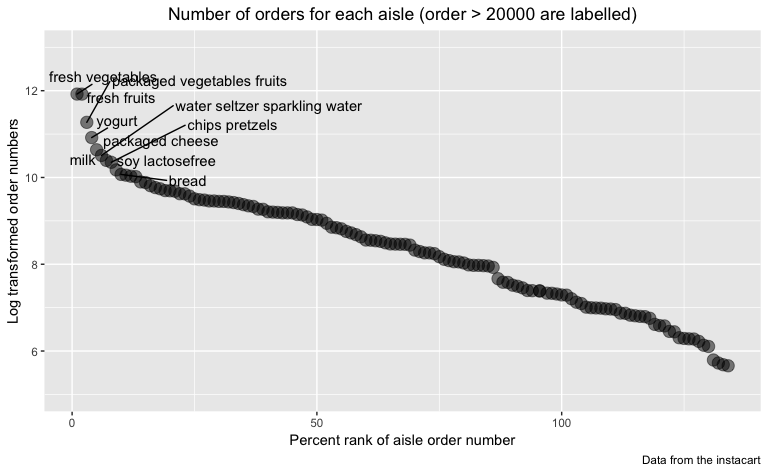
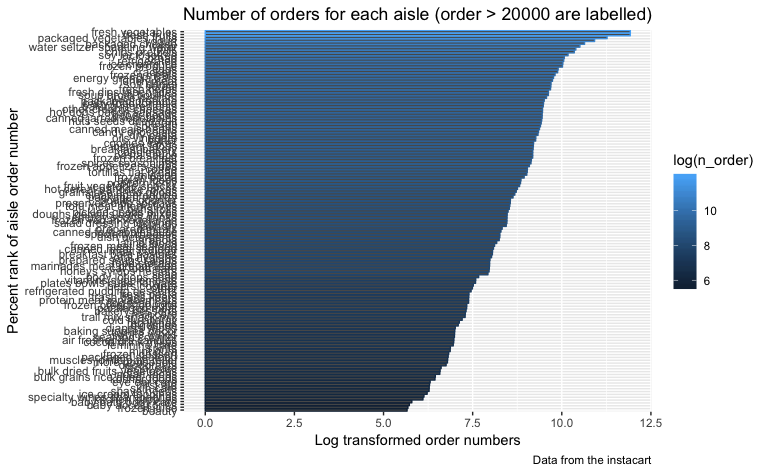
Version 9
1. make outputs keep less digits

2. show only several aisles in table

3. change the aisle plot

4. change to boxplot for last figure

5. add descriptions to noaa data in problem 3

diff --git a/p8105_hw3_zf2213.md b/p8105_hw3_zf2213.md
@@ -95,17 +95,17 @@ brfss %>% filter(year %in% c(2002, 2006, 2010), response == "Excellent", state =
           knitr::kable()
 ```
 
-| area               |      mean|         sd|
-|:-------------------|---------:|----------:|
-| Bronx County       |  17.60000|         NA|
-| Erie County        |  17.20000|         NA|
-| Kings County       |  20.36667|  1.7672955|
-| Monroe County      |  22.40000|         NA|
-| Nassau County      |  24.93333|  2.8219379|
-| New York County    |  27.50000|  1.5394804|
-| Queens County      |  19.63333|  1.3576941|
-| Suffolk County     |  24.10000|  3.2787193|
-| Westchester County |  26.45000|  0.6363961|
+| area               |  mean|    sd|
+|:-------------------|-----:|-----:|
+| Bronx County       |    18|    NA|
+| Erie County        |    17|    NA|
+| Kings County       |    20|  1.77|
+| Monroe County      |    22|    NA|
+| Nassau County      |    25|  2.82|
+| New York County    |    28|  1.54|
+| Queens County      |    20|  1.36|
+| Suffolk County     |    24|  3.28|
+| Westchester County |    26|  0.64|
 
 Since in Bronx, Erie and Monroe, there were only one observation out of three years, so sd are NAs.
 
@@ -166,10 +166,13 @@ instacart %>%
 instacart %>%
  group_by(aisle) %>%
  summarize(n_order = n()) %>%
- arrange(desc(n_order))
+ arrange(desc(n_order)) %>% 
+ top_n(10)
 ```
 
-    ## # A tibble: 134 x 2
+    ## Selecting by n_order
+
+    ## # A tibble: 10 x 2
     ##    aisle                         n_order
     ##    <chr>                           <int>
     ##  1 fresh vegetables               150609
@@ -182,31 +185,24 @@ instacart %>%
     ##  8 chips pretzels                  31269
     ##  9 soy lactosefree                 26240
     ## 10 bread                           23635
-    ## # ... with 124 more rows
 
 There are 134 aisles. Fresh vegetables and fresh fruits aisles are ordered the most.
 
 *Q2. Make a plot that shows the number of items ordered in each aisle. Order aisles sensibly, and organize your plot so others can read it.*
 
 ``` r
-# package for label points
-library(ggrepel)
-
 instacart %>%
  # group by aisle
  group_by(aisle) %>%
  # number of orders for each aisle
  summarize(n_order = n()) %>%
  # sort according to number of orders
- mutate(rank = rank(desc(n_order))) %>% 
+ mutate(rank = rank(n_order)) %>% 
  # plot scatterplot
- ggplot(aes(x = rank, y = log(n_order))) +
+ ggplot(aes(x = reorder(aisle, rank), y = log(n_order))) +
    # plot points
-   geom_point(size = 4, alpha = 0.5) +
-   # label top 10 points
-   geom_text_repel(aes(label = ifelse(rank < 11, aisle, "")), vjust = 1) + 
-   # range limits
-   ylim(c(5,13)) +
+   geom_bar(stat = "identity", aes(color = log(n_order))) +
+   coord_flip() +
    # add labels and titles
    labs(
     title = "Number of orders for each aisle (order > 20000 are labelled)",
@@ -225,6 +221,7 @@ Vegetables, fruits, sparkling water, yogurt, cheese, milk, chips, pretzels, brea
 *Q3. Make a table showing the most popular item aisles “baking ingredients”, “dog food care”, and “packaged vegetables fruits”*
 
 ``` r
+library(kableExtra)
 instacart %>%
  # get the three aisle
  filter(aisle %in% c("baking ingredients",
@@ -239,14 +236,9 @@ instacart %>%
  # get items with largest order number in each aisle
  filter(number_orders == max(number_orders)) %>%
  # output table
- knitr::kable()
+ knitr::kable(caption = "Most Popular Item Aisles", format = "latex") %>% 
+   kable_styling(latex_options = "hold_position")
 ```
-
-| aisle                      | product\_name                                 |  number\_orders|
-|:---------------------------|:----------------------------------------------|---------------:|
-| baking ingredients         | Light Brown Sugar                             |             499|
-| dog food care              | Snack Sticks Chicken & Rice Recipe Dog Treats |              30|
-| packaged vegetables fruits | Organic Baby Spinach                          |            9784|
 
 Light brown sugar, snack sticks chicken & rice recipe dog treats, organic baby spinach are most ordered items in the corresponding three aisle. Organic baby spinach greatly outnumbers the other two.
 
@@ -266,11 +258,90 @@ instacart %>%
  knitr::kable()
 ```
 
-| product\_name    |         0|         1|         2|         3|         4|         5|         6|
-|:-----------------|---------:|---------:|---------:|---------:|---------:|---------:|---------:|
-| Coffee Ice Cream |  13.77419|  14.31579|  15.38095|  15.31818|  15.21739|  12.26316|  13.83333|
-| Pink Lady Apples |  13.44118|  11.36000|  11.70213|  14.25000|  11.55172|  12.78431|  11.93750|
-
+<table>
+<thead>
+<tr>
+<th style="text-align:left;">
+product\_name
+</th>
+<th style="text-align:right;">
+0
+</th>
+<th style="text-align:right;">
+1
+</th>
+<th style="text-align:right;">
+2
+</th>
+<th style="text-align:right;">
+3
+</th>
+<th style="text-align:right;">
+4
+</th>
+<th style="text-align:right;">
+5
+</th>
+<th style="text-align:right;">
+6
+</th>
+</tr>
+</thead>
+<tbody>
+<tr>
+<td style="text-align:left;">
+Coffee Ice Cream
+</td>
+<td style="text-align:right;">
+14
+</td>
+<td style="text-align:right;">
+14
+</td>
+<td style="text-align:right;">
+15
+</td>
+<td style="text-align:right;">
+15
+</td>
+<td style="text-align:right;">
+15
+</td>
+<td style="text-align:right;">
+12
+</td>
+<td style="text-align:right;">
+14
+</td>
+</tr>
+<tr>
+<td style="text-align:left;">
+Pink Lady Apples
+</td>
+<td style="text-align:right;">
+13
+</td>
+<td style="text-align:right;">
+11
+</td>
+<td style="text-align:right;">
+12
+</td>
+<td style="text-align:right;">
+14
+</td>
+<td style="text-align:right;">
+12
+</td>
+<td style="text-align:right;">
+13
+</td>
+<td style="text-align:right;">
+12
+</td>
+</tr>
+</tbody>
+</table>
 People buy ice cream late from Monday to Thursday, early during weekends and Friday. People buy apples around 2:00 pm in Wednesday and Sunday, but around noon for the rests.
 
 Problem 3
@@ -283,20 +354,125 @@ ny_noaa <- p8105.datasets::ny_noaa %>%
  separate(col = date, into = c("year", "month", "day"), sep = "-") %>%
  rename(prcp_01mm = prcp, snow_mm = snow, snwd_mm = snwd) %>%
  mutate(tmax = as.integer(tmax), tmin = as.integer(tmin))
+
+ny_noaa %>% count(is.na(snow_mm))
 ```
 
-*Q1. For snowfall, what are the most commonly observed values? Why?* The dataset has many missing values. Most part are zeros. Most area are so warm that no snow can form.
+    ## # A tibble: 2 x 2
+    ##   `is.na(snow_mm)`       n
+    ##   <lgl>              <int>
+    ## 1 FALSE            2213955
+    ## 2 TRUE              381221
+
+``` r
+ny_noaa %>% count(is.na(snwd_mm))
+```
+
+    ## # A tibble: 2 x 2
+    ##   `is.na(snwd_mm)`       n
+    ##   <lgl>              <int>
+    ## 1 FALSE            2003390
+    ## 2 TRUE              591786
+
+``` r
+ny_noaa %>% count(is.na(prcp_01mm))
+```
+
+    ## # A tibble: 2 x 2
+    ##   `is.na(prcp_01mm)`       n
+    ##   <lgl>                <int>
+    ## 1 FALSE              2449338
+    ## 2 TRUE                145838
+
+``` r
+ny_noaa %>% count(is.na(tmax))
+```
+
+    ## # A tibble: 2 x 2
+    ##   `is.na(tmax)`       n
+    ##   <lgl>           <int>
+    ## 1 FALSE         1460818
+    ## 2 TRUE          1134358
+
+``` r
+ny_noaa %>% count(is.na(tmin))
+```
+
+    ## # A tibble: 2 x 2
+    ##   `is.na(tmin)`       n
+    ##   <lgl>           <int>
+    ## 1 FALSE         1460756
+    ## 2 TRUE          1134420
+
+The dataset has 1384617 entries. 747 unique stations. There are 9 variables, station id, date of observation, precipitation (in 0.1 mm), snowfall (in mm), snow depth (in mm), max temperature (0.1 ºC), min temperature (0.1 ºC). Many stations only collect a subset of these data for some time. There are around 2.2 million (85.3%) entries without snowfall observations, 2.0 million (77.2%) entries without snow depth information, 2.5 million (94.4%) entries without precipitation data, 1.46 million (56.3%) without temperature data. .
+
+*Q1. For snowfall, what are the most commonly observed values? Why?*
+
+``` r
+ny_noaa %>% 
+ filter(!is.na(tmin), !is.na(snow_mm)) %>% 
+ mutate(tmin_neg100 = tmin > -100) %>% 
+ group_by(tmin_neg100) %>% 
+ count(snow_mm == 0)
+```
+
+    ## # A tibble: 4 x 3
+    ## # Groups:   tmin_neg100 [2]
+    ##   tmin_neg100 `snow_mm == 0`       n
+    ##   <lgl>       <lgl>            <int>
+    ## 1 FALSE       FALSE            50851
+    ## 2 FALSE       TRUE             96722
+    ## 3 TRUE        FALSE            68706
+    ## 4 TRUE        TRUE           1071768
+
+``` r
+ny_noaa %>% 
+ filter(!is.na(tmin), !is.na(snow_mm)) %>% 
+ mutate(tmin_0 = tmin > 0) %>% 
+ group_by(tmin_0) %>% 
+ count(snow_mm == 0)
+```
+
+    ## # A tibble: 4 x 3
+    ## # Groups:   tmin_0 [2]
+    ##   tmin_0 `snow_mm == 0`      n
+    ##   <lgl>  <lgl>           <int>
+    ## 1 FALSE  FALSE          117822
+    ## 2 FALSE  TRUE           378116
+    ## 3 TRUE   FALSE            1735
+    ## 4 TRUE   TRUE           790374
+
+``` r
+ny_noaa %>% 
+ filter(!is.na(tmin), !is.na(snow_mm)) %>% 
+ mutate(tmin_100 = tmin > 100) %>% 
+ group_by(tmin_100) %>% 
+ count(snow_mm == 0)
+```
+
+    ## # A tibble: 4 x 3
+    ## # Groups:   tmin_100 [2]
+    ##   tmin_100 `snow_mm == 0`      n
+    ##   <lgl>    <lgl>           <int>
+    ## 1 FALSE    FALSE          119537
+    ## 2 FALSE    TRUE           794547
+    ## 3 TRUE     FALSE              20
+    ## 4 TRUE     TRUE           373943
 
 *Q2. Make a two-panel plot showing the average temperature in January and in July in each station across years. Is there any observable / interpretable structure? Any outliers?*
 
 ``` r
 ny_noaa %>% filter(month %in% c("01", "07")) %>%
- group_by(year, month) %>%
+ group_by(id, month) %>%
  summarize(mean_temp = mean(tmax, na.rm = TRUE)) %>%
- ggplot(aes(y = mean_temp, x = year)) + geom_point() + facet_grid(. ~ month)
+ filter(!is.na(mean_temp)) %>% 
+ ggplot(aes(y = mean_temp, x = id)) +
+   geom_point() +
+   geom_text(aes(label = ifelse(mean_temp < -60, id, "")), vjust = 1) +
+   facet_grid(. ~ month)
 ```
 
-<img src="p8105_hw3_zf2213_files/figure-markdown_github/unnamed-chunk-2-1.png" width="100%" />
+<img src="p8105_hw3_zf2213_files/figure-markdown_github/unnamed-chunk-3-1.png" width="100%" />
 
 *Q3. Make a two-panel plot showing (i) tmax vs tmin for the full dataset (note that a scatterplot may not be the best option); and (ii) make a plot showing the distribution of snowfall values greater than 0 and less than 100 separately by year.*
 
@@ -304,10 +480,8 @@ ny_noaa %>% filter(month %in% c("01", "07")) %>%
 tmax_tmin <- ny_noaa %>% ggplot(aes(x = tmax, y = tmin)) + geom_density_2d()
 
 snf <- ny_noaa %>% filter(snow_mm > 0, snow_mm < 100) %>% 
-                   group_by(year) %>% 
-                   summarize(mean_snow_mm = mean(snow_mm)) %>% 
-                   ggplot(aes(x = year, y = mean_snow_mm)) +
-                     geom_point()
+                   ggplot(aes(x = year, y = snow_mm)) +
+                     geom_boxplot()
 library(patchwork)
 tmax_tmin + snf
 ```
@@ -315,4 +489,4 @@ tmax_tmin + snf
     ## Warning: Removed 1136276 rows containing non-finite values
     ## (stat_density2d).
 
-<img src="p8105_hw3_zf2213_files/figure-markdown_github/unnamed-chunk-3-1.png" width="100%" />
+<img src="p8105_hw3_zf2213_files/figure-markdown_github/unnamed-chunk-4-1.png" width="100%" />
